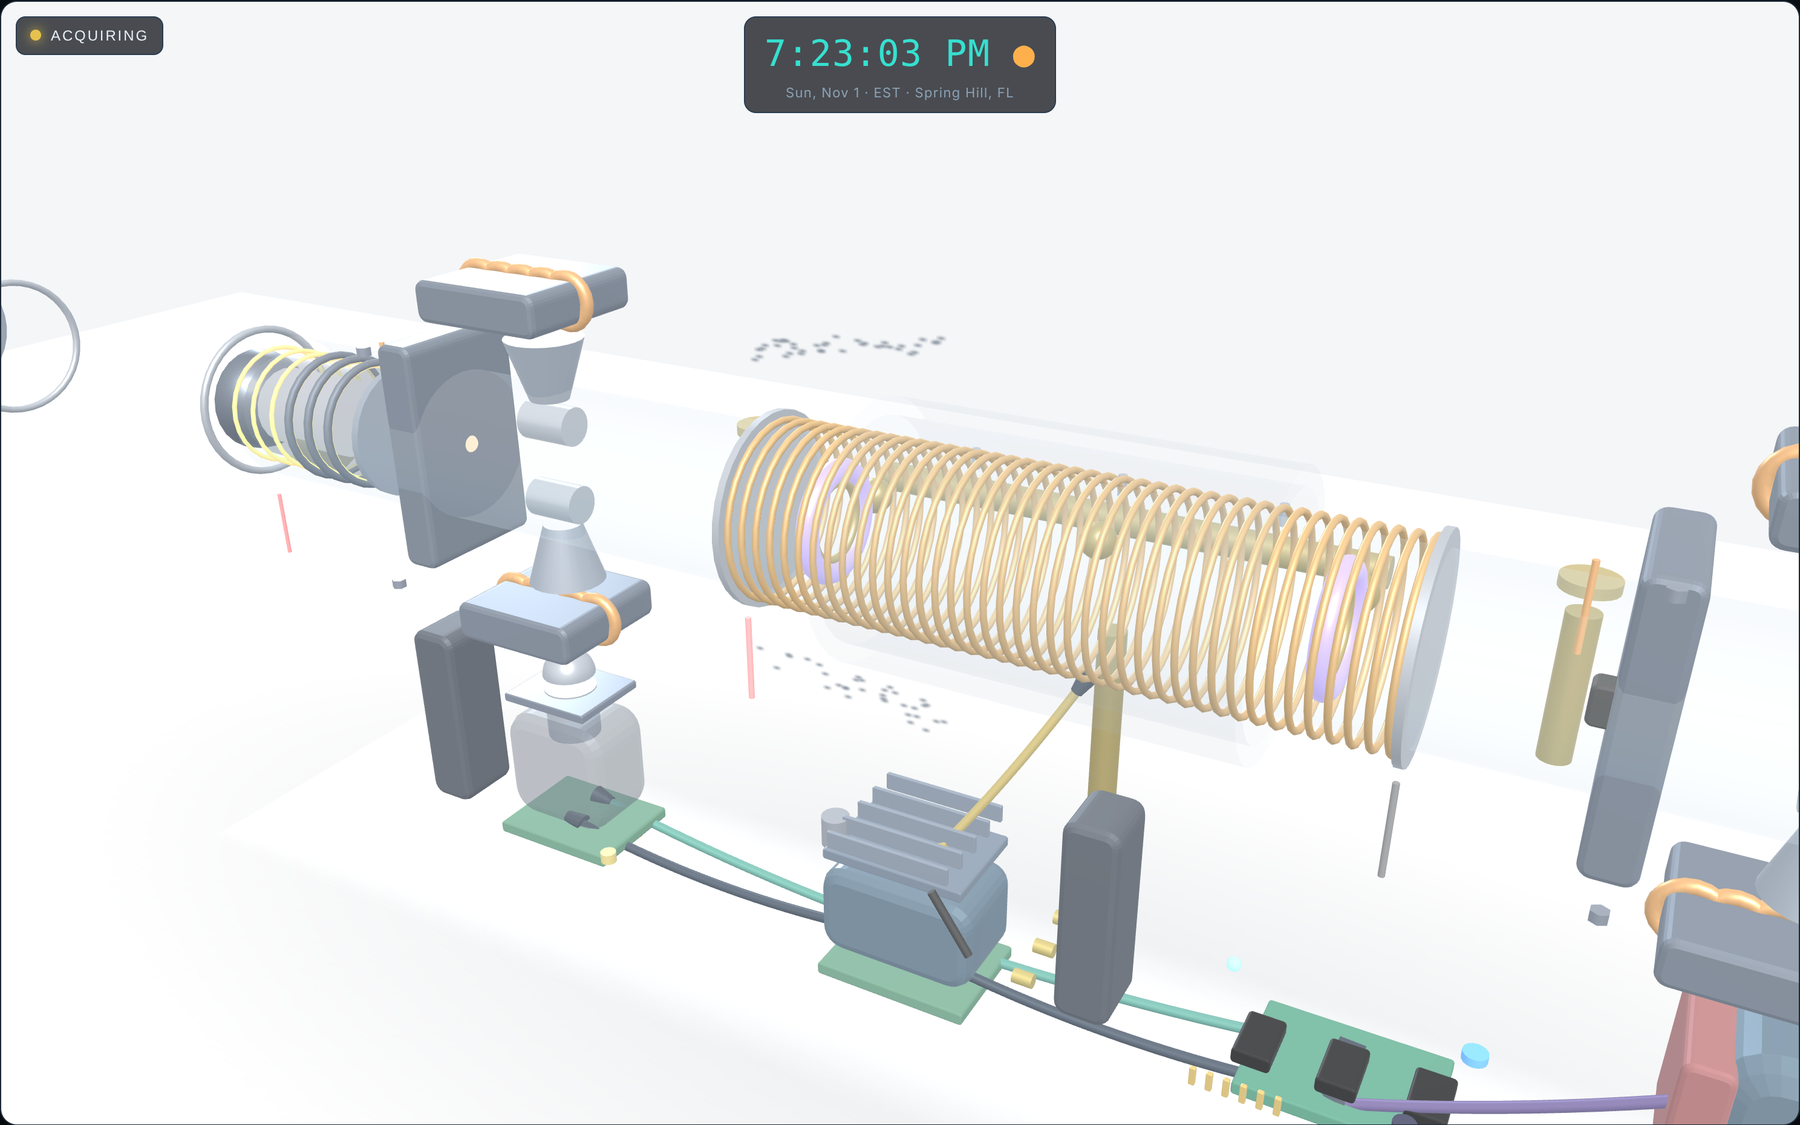
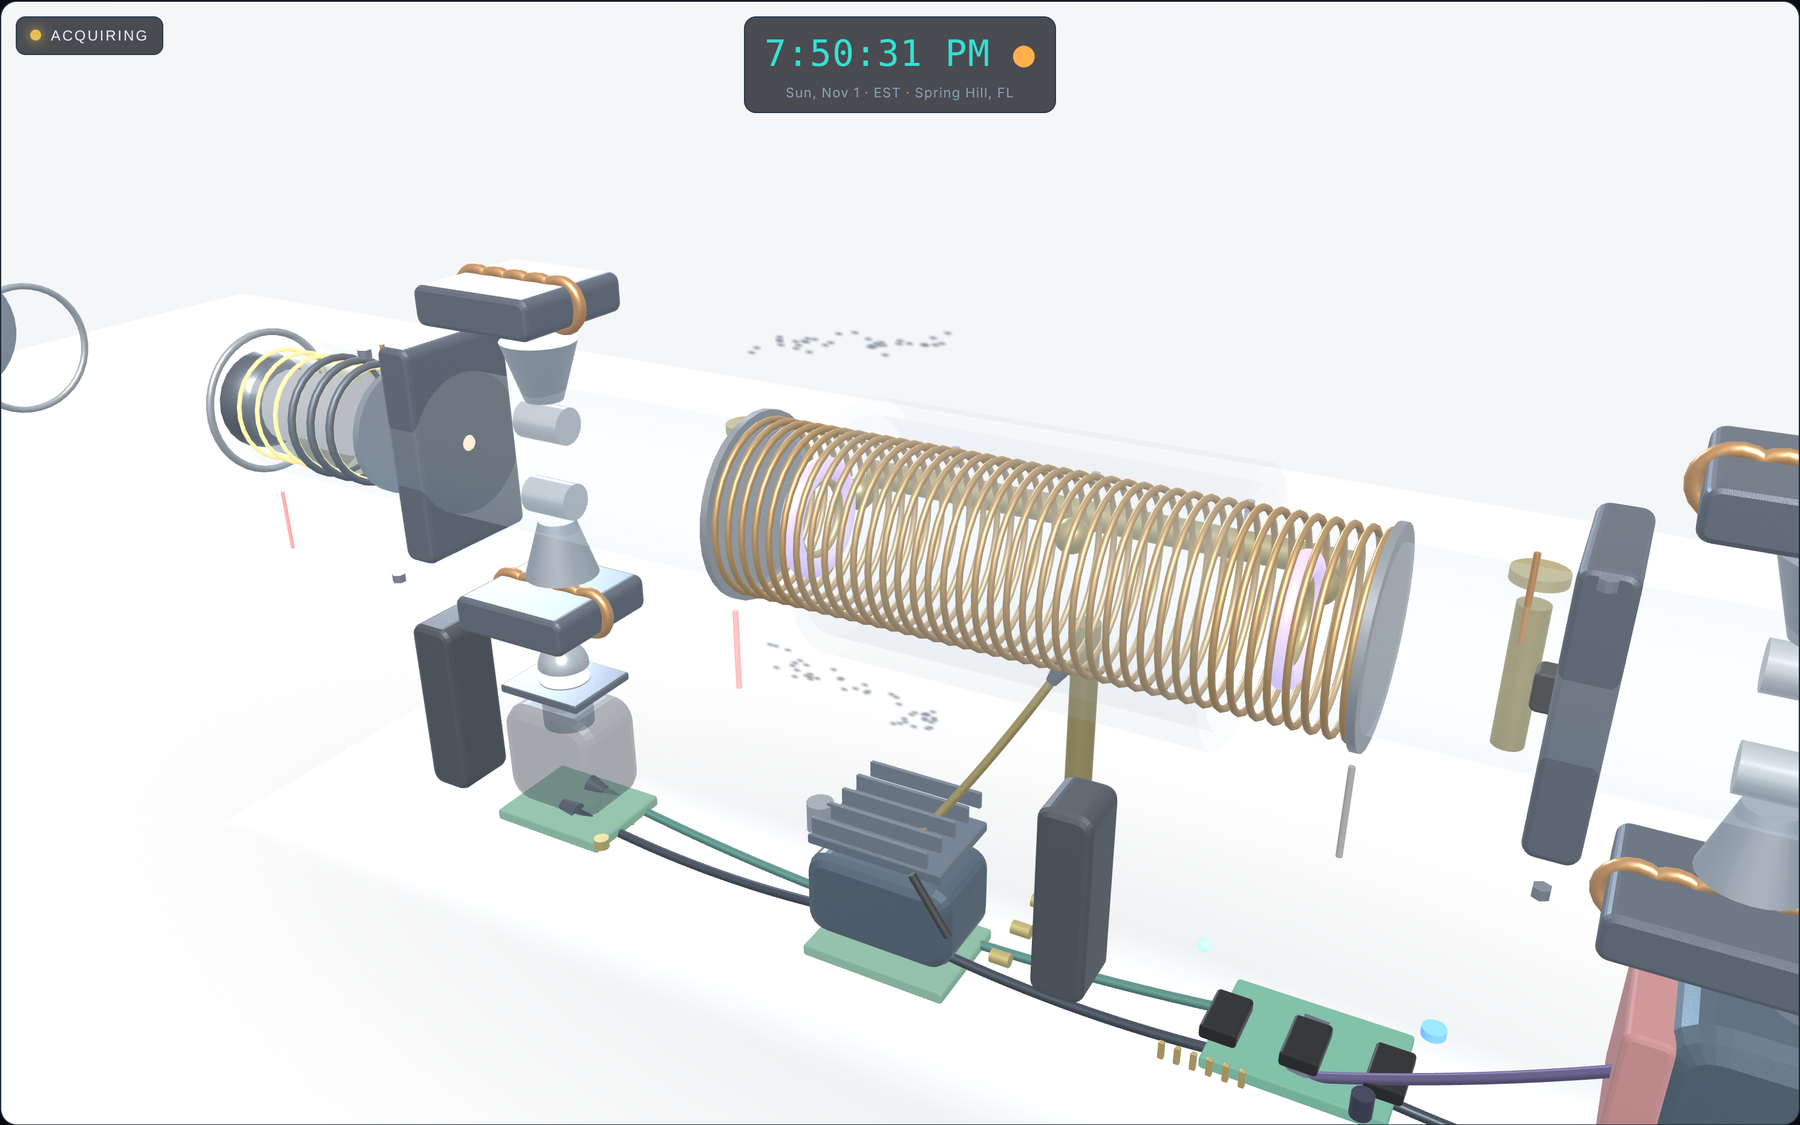
Photorealistic components: physically-based metals + grounded materials
Upgrade every component to physically-based metal shading — true metals,
a procedural machined micro-surface (roughness + bump maps), and
environment reflections — tuned to what a real caesium beam tube is made
of (copper oven, iron/copper state-selector magnets, C-field coil on the
cavity cover, mu-metal shield, hot-wire ioniser).

- atomic.html source: metalTex() + metalness=1.0 PBR in MAT()
- Re-rendered all dissection stills + OG cover from the updated scene
- Regenerated self-contained offline model (three.js inlined) and hosted
  standalone, both wrapped in a UTF-8 skeleton (fixes glyph mojibake);
  offline render verified with zero page errors
- Added a "Grounding the materials" note to the article with scholarly
  citations (NIST, Frontiers 2022 review, beam-tube patent, teardowns)

Claude-Session: https://claude.ai/code/session_01YXoVwwxemi4SoJ6UT6wZSp

diff --git a/posts/teardown-engine-to-atomic-clock/index.html b/posts/teardown-engine-to-atomic-clock/index.html
@@ -164,6 +164,9 @@
     <p><strong>An honest note on what this is.</strong> This is a faithful <em>simulation and visualisation</em> of how a caesium clock works, not a literal CAD model and not a real atomic reference. The quantum physics is modelled from the real quantities &mdash; the hyperfine states, the 9,192,631,770&nbsp;Hz definition, the Ramsey interrogation, the servo lock. The time it displays is read from your device's network-synchronised clock and formatted to Eastern Time (<code>America/New_York</code>, so it handles the EST/EDT switch itself); no web page can contain an actual caesium oscillator. The stability figures are representative of commercial caesium beam standards (around 10<sup>&minus;12</sup>); laboratory fountains do far better. The screenshots above are real captures of the running build. We say what it is.</p>
   </div>
 
+  <h2>Grounding the materials</h2>
+  <p>To get the look right, we checked what a real caesium beam tube is actually made of. NIST's own standards work, a 2022 review of caesium beam and fountain clocks, a vintage beam-tube patent, and hands-on teardowns of commercial tubes all line up with what the render shows: a <strong>copper oven</strong> vessel, <strong>iron-and-copper state-selector magnets</strong>, a central microwave cavity with the <strong>C-field coil wound around its cover</strong>, a <strong>mu-metal shield</strong> band, and a <strong>hot-wire ioniser</strong> feeding an electron multiplier in a metal box, with ceramic insulators and stainless strip throughout.<sup><a href="#ref-9">[9]</a><sup><a href="#ref-10">[10]</a><sup><a href="#ref-11">[11]</a></sup> The 3D parts now use physically-based metal shading &mdash; true metals, a machined micro-surface, and environment reflections &mdash; tuned to those real materials. It is realistic metalwork, not a photograph: the geometry is still built from clean primitives, and no copyrighted lab photos are reproduced.</p>
+
   <h2>Proof of concept: the code</h2>
   <p>The whole clock is one self-contained HTML page. It pulls three.js from a single pinned CDN build and otherwise carries all of its own logic, which is the point of the format: one file, offline, nothing to install. The physics on screen is derived, not decorative &mdash; here are three pieces of it, straight from the source.</p>
 

diff --git a/posts/teardown-engine-to-atomic-clock/code/atomic-clock-model.html b/posts/teardown-engine-to-atomic-clock/code/atomic-clock-model.html
@@ -261,10 +261,26 @@
   var PK = {}; var pickable = []; var pickParts=[], partsByComp={};
   function tag(m,comp,name,desc){ m.userData.info={comp:comp,name:name,desc:desc}; pickParts.push(m);
     var a=partsByComp[comp]||(partsByComp[comp]=[]); if(!a.some(function(p){return p.name===name;})) a.push({name:name,desc:desc,mesh:m}); return m; }
-  function MAT(color,o){ o=o||{}; return new THREE.MeshStandardMaterial({color:color,
-    metalness:o.metal!=null?o.metal:0.7, roughness:o.rough!=null?o.rough:0.4,
-    transparent:!!o.transparent, opacity:o.opacity!=null?o.opacity:1,
-    emissive:new THREE.Color(o.emissive||0x000000), emissiveIntensity:o.ei||0, side:o.side||THREE.FrontSide}); }
+  // shared micro-surface texture: fine machined/brushed detail for realistic metal highlights
+  var _mtex=null;
+  function metalTex(){ if(_mtex) return _mtex;
+    var c=document.createElement('canvas'); c.width=c.height=256; var x=c.getContext('2d');
+    var img=x.createImageData(256,256), d=img.data;
+    for(var i=0;i<d.length;i+=4){ var v=188+((Math.random()*67)|0); d[i]=d[i+1]=d[i+2]=v; d[i+3]=255; }
+    x.putImageData(img,0,0); x.globalAlpha=0.06; x.strokeStyle='#ffffff';
+    for(var s=0;s<140;s++){ x.beginPath(); var y=Math.random()*256; x.moveTo(0,y); x.lineTo(256,y+(Math.random()-0.5)*5); x.stroke(); }
+    var t=new THREE.CanvasTexture(c); t.wrapS=t.wrapT=THREE.RepeatWrapping; t.repeat.set(3,3);
+    if('colorSpace' in t && THREE.NoColorSpace) t.colorSpace=THREE.NoColorSpace;
+    _mtex=t; return t;
+  }
+  function MAT(color,o){ o=o||{};
+    var metal=o.metal!=null?o.metal:0.7;
+    var m=new THREE.MeshStandardMaterial({color:color,
+      metalness: metal>=0.5?1.0:metal, roughness:o.rough!=null?o.rough:0.4,
+      transparent:!!o.transparent, opacity:o.opacity!=null?o.opacity:1,
+      emissive:new THREE.Color(o.emissive||0x000000), emissiveIntensity:o.ei||0, side:o.side||THREE.FrontSide});
+    if(metal>=0.5 && !o.transparent){ var t=metalTex(); m.roughnessMap=t; m.bumpMap=t; m.bumpScale=0.0025; m.envMapIntensity=1.0; }
+    return m; }
 
   var ATOMS=[], NA=150, posA, colorA, waveA, mixA, atomGeo, atomMat, atomPoints, colF3, colF4, colDim;
   function build(){

diff --git a/posts/teardown-engine-to-atomic-clock/code/atomic-clock.html b/posts/teardown-engine-to-atomic-clock/code/atomic-clock.html
@@ -255,10 +255,26 @@
   var PK = {}; var pickable = []; var pickParts=[], partsByComp={};
   function tag(m,comp,name,desc){ m.userData.info={comp:comp,name:name,desc:desc}; pickParts.push(m);
     var a=partsByComp[comp]||(partsByComp[comp]=[]); if(!a.some(function(p){return p.name===name;})) a.push({name:name,desc:desc,mesh:m}); return m; }
-  function MAT(color,o){ o=o||{}; return new THREE.MeshStandardMaterial({color:color,
-    metalness:o.metal!=null?o.metal:0.7, roughness:o.rough!=null?o.rough:0.4,
-    transparent:!!o.transparent, opacity:o.opacity!=null?o.opacity:1,
-    emissive:new THREE.Color(o.emissive||0x000000), emissiveIntensity:o.ei||0, side:o.side||THREE.FrontSide}); }
+  // shared micro-surface texture: fine machined/brushed detail for realistic metal highlights
+  var _mtex=null;
+  function metalTex(){ if(_mtex) return _mtex;
+    var c=document.createElement('canvas'); c.width=c.height=256; var x=c.getContext('2d');
+    var img=x.createImageData(256,256), d=img.data;
+    for(var i=0;i<d.length;i+=4){ var v=188+((Math.random()*67)|0); d[i]=d[i+1]=d[i+2]=v; d[i+3]=255; }
+    x.putImageData(img,0,0); x.globalAlpha=0.06; x.strokeStyle='#ffffff';
+    for(var s=0;s<140;s++){ x.beginPath(); var y=Math.random()*256; x.moveTo(0,y); x.lineTo(256,y+(Math.random()-0.5)*5); x.stroke(); }
+    var t=new THREE.CanvasTexture(c); t.wrapS=t.wrapT=THREE.RepeatWrapping; t.repeat.set(3,3);
+    if('colorSpace' in t && THREE.NoColorSpace) t.colorSpace=THREE.NoColorSpace;
+    _mtex=t; return t;
+  }
+  function MAT(color,o){ o=o||{};
+    var metal=o.metal!=null?o.metal:0.7;
+    var m=new THREE.MeshStandardMaterial({color:color,
+      metalness: metal>=0.5?1.0:metal, roughness:o.rough!=null?o.rough:0.4,
+      transparent:!!o.transparent, opacity:o.opacity!=null?o.opacity:1,
+      emissive:new THREE.Color(o.emissive||0x000000), emissiveIntensity:o.ei||0, side:o.side||THREE.FrontSide});
+    if(metal>=0.5 && !o.transparent){ var t=metalTex(); m.roughnessMap=t; m.bumpMap=t; m.bumpScale=0.0025; m.envMapIntensity=1.0; }
+    return m; }
 
   var ATOMS=[], NA=150, posA, colorA, waveA, mixA, atomGeo, atomMat, atomPoints, colF3, colF4, colDim;
   function build(){
